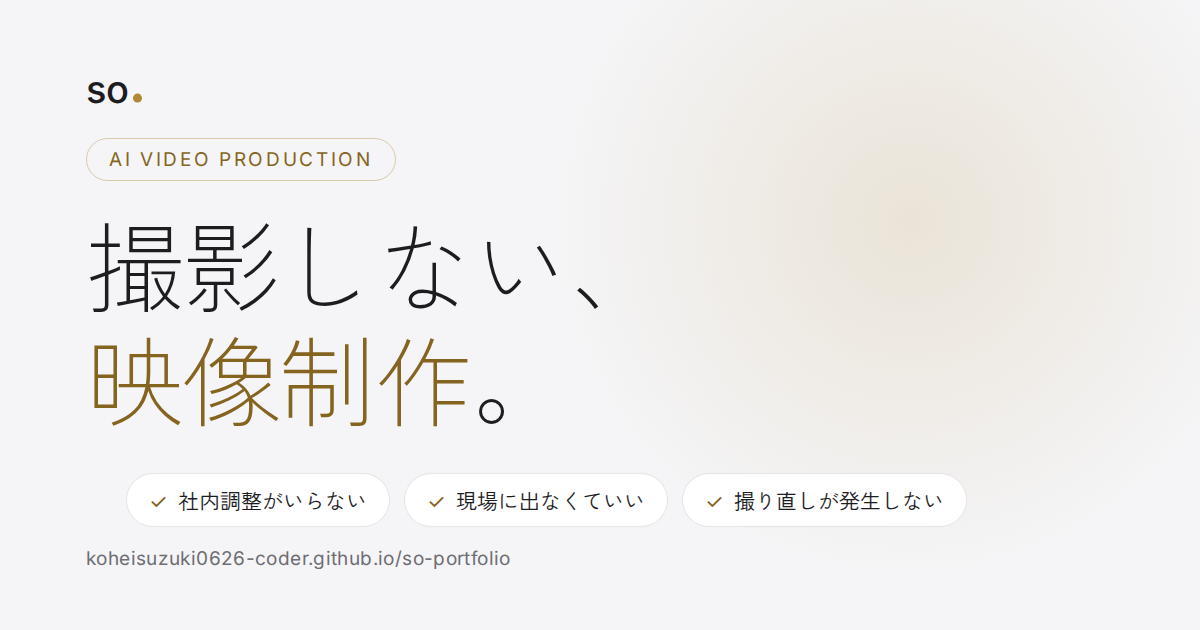
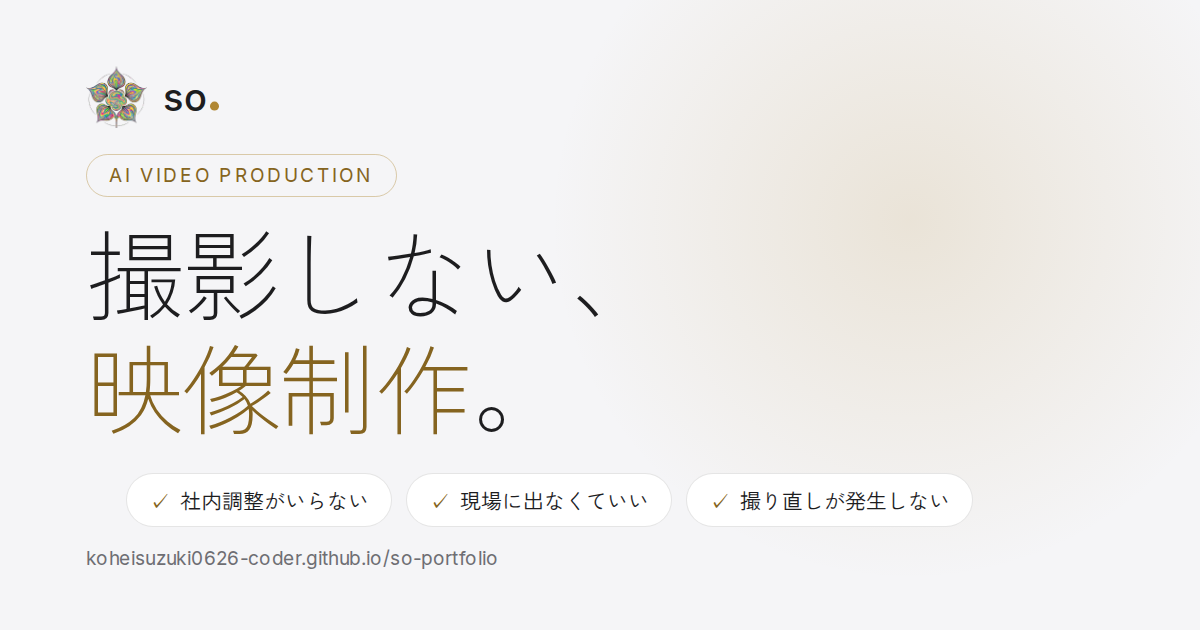
change: ロゴを花のシンボルマークに差し替える
いただいた絵をシンボルマークにして、社名の左に置く組みロゴにした。
社名の「.」を録画ボタンの ● として描く扱いはそのまま残している。

- ヘッダー・フッター(両ページ)にマークを追加
  大きさは文字サイズ連動(1.62em)で、画面幅が変わっても比率は崩れない
- 元は白地の JPEG なので、外周から塗りつぶして地に繋がっている白だけを透過に
  単純な白キーだと花の内側の淡い色まで穴が開くため
  白と混ざったぶんを戻してあるので、暗い地でも白フチが出ない
- ファビコン・apple-touch-icon・OGP 画像を作り直し
  iOS は透過を黒く潰すので apple-touch-icon だけ白地を敷く
- 名刺・印刷用に組みロゴ(明るい地/暗い地)と茎つき原寸版を追加
- サイトが読むマークは 256px に減色して 31KB(原寸は 240KB)
  実際に出る 30〜60px では見分けがつかない
- 元の絵と生成スクリプトを残したので、いつでも作り直せる
- ワードマークの SVG は logo-word*.svg に改名(ロゴ全体ではないため)

Claude-Session: https://claude.ai/code/session_01G6zCorxV6ds2UKWpb8gnyK

diff --git a/assets/src/ogp.html b/assets/src/ogp.html
@@ -1,0 +1,40 @@
+<!doctype html><html lang="ja"><head><meta charset="utf-8">
+<link rel="stylesheet" href="https://fonts.googleapis.com/css2?family=Inter:wght@300;400;500&family=Zen+Kaku+Gothic+New:wght@300;400;500&display=swap">
+<style>
+*{box-sizing:border-box;margin:0}
+body{width:1200px;height:630px;background:#f5f5f7;
+  font-family:"Inter","Zen Kaku Gothic New",sans-serif;color:#1d1d1f;
+  display:flex;flex-direction:column;justify-content:space-between;
+  padding:66px 86px 60px;position:relative;overflow:hidden}
+.glow{position:absolute;inset:-30% -10% auto auto;width:820px;height:820px;border-radius:50%;
+  background:radial-gradient(circle,rgba(176,135,51,.16),rgba(176,135,51,0) 62%)}
+.mark{font-size:38px;font-weight:500;letter-spacing:.01em;position:relative;
+  display:flex;align-items:center;gap:.42em}
+.mark img{height:1.62em;width:auto}
+.mark .w{display:flex;align-items:baseline}
+.mark i{width:.235em;height:.235em;margin-left:.075em;border-radius:50%;
+  background:#b08733;transform:translateY(-.01em)}
+.badge{display:inline-block;margin-top:26px;font-size:19px;letter-spacing:.14em;
+  color:#856420;border:1px solid rgba(176,135,51,.4);border-radius:980px;padding:9px 22px}
+h1{font-size:98px;font-weight:300;line-height:1.16;letter-spacing:-.015em;position:relative}
+h1 em{font-style:normal;color:#856420}
+.chips{display:flex;gap:14px;position:relative}
+.chips li{list-style:none;font-size:21px;font-weight:400;background:#fff;white-space:nowrap;
+  border:1px solid rgba(0,0,0,.1);border-radius:980px;padding:11px 22px}
+.chips li::before{content:"✓";color:#856420;margin-right:10px}
+.foot{display:flex;flex-direction:column;gap:20px;align-items:flex-start;position:relative}
+.url{font-size:19px;color:#6e6e73;letter-spacing:.02em;white-space:nowrap}
+</style></head><body>
+<div class="glow"></div>
+<div>
+  <div class="mark"><img src="/assets/logo-mark.png" alt=""><span class="w">so<i></i></span></div>
+  <div class="badge">AI VIDEO PRODUCTION</div>
+</div>
+<h1>撮影しない、<br><em>映像制作</em>。</h1>
+<div class="foot">
+  <ul class="chips">
+    <li>社内調整がいらない</li><li>現場に出なくていい</li><li>撮り直しが発生しない</li>
+  </ul>
+  <div class="url">koheisuzuki0626-coder.github.io/so-portfolio</div>
+</div>
+</body></html>

diff --git a/about.html b/about.html
@@ -13,7 +13,7 @@
     <meta property="og:type" content="website">
     <link rel="canonical" href="https://koheisuzuki0626-coder.github.io/so-portfolio/about.html">
     <meta property="og:url" content="https://koheisuzuki0626-coder.github.io/so-portfolio/about.html">
-    <link rel="icon" href="assets/favicon.svg" type="image/svg+xml">
+    <link rel="icon" href="assets/favicon.png" type="image/png" sizes="any">
     <link rel="apple-touch-icon" href="assets/apple-touch-icon.png">
     <meta name="theme-color" content="#f5f5f7">
     <meta property="og:site_name" content="so.">
@@ -32,7 +32,7 @@
     <div class="progress" id="progress"></div>
 
     <nav id="nav">
-        <a href="index.html" class="logo" aria-label="so.">so<i class="logo-dot" aria-hidden="true"></i></a>
+        <a href="index.html" class="logo" aria-label="so."><img class="logo-mark" src="assets/logo-mark.png" alt="" width="256" height="257" decoding="async"><span class="logo-word">so<i class="logo-dot" aria-hidden="true"></i></span></a>
 
         <!-- 下層ページなので、導線はトップの主要セクションへ戻すだけにする -->
         <div class="nav-main">
@@ -115,7 +115,7 @@
     <footer>
         <div class="footer-inner">
             <div class="f-brand">
-                <a href="index.html" class="f-logo" aria-label="so.">so<i class="logo-dot" aria-hidden="true"></i></a>
+                <a href="index.html" class="f-logo" aria-label="so."><img class="logo-mark" src="assets/logo-mark.png" alt="" width="256" height="257" decoding="async"><span class="logo-word">so<i class="logo-dot" aria-hidden="true"></i></span></a>
                 <p class="f-tagline">撮影しない、映像制作。</p>
                 <p class="f-note">AI で動画をつくる会社です。出演者の手配も、撮影日の調整も必要ありません。</p>
                 <a href="#contact" class="pill pill-solid f-cta">相談してみる</a>

diff --git a/index.html b/index.html
@@ -13,7 +13,7 @@
     <meta property="og:type" content="website">
     <link rel="canonical" href="https://koheisuzuki0626-coder.github.io/so-portfolio/">
     <meta property="og:url" content="https://koheisuzuki0626-coder.github.io/so-portfolio/">
-    <link rel="icon" href="assets/favicon.svg" type="image/svg+xml">
+    <link rel="icon" href="assets/favicon.png" type="image/png" sizes="any">
     <link rel="apple-touch-icon" href="assets/apple-touch-icon.png">
     <meta name="theme-color" content="#f5f5f7">
     <meta property="og:site_name" content="so.">
@@ -144,7 +144,7 @@
     <div class="progress" id="progress"></div>
 
     <nav id="nav">
-        <a href="#top" class="logo" aria-label="so.">so<i class="logo-dot" aria-hidden="true"></i></a>
+        <a href="#top" class="logo" aria-label="so."><img class="logo-mark" src="assets/logo-mark.png" alt="" width="256" height="257" decoding="async"><span class="logo-word">so<i class="logo-dot" aria-hidden="true"></i></span></a>
 
         <!-- 主要導線は4つに絞り、ジャンルはドロップダウンに格納する -->
         <div class="nav-main">
@@ -607,7 +607,7 @@
     <footer>
         <div class="footer-inner">
             <div class="f-brand">
-                <a href="#top" class="f-logo" aria-label="so.">so<i class="logo-dot" aria-hidden="true"></i></a>
+                <a href="#top" class="f-logo" aria-label="so."><img class="logo-mark" src="assets/logo-mark.png" alt="" width="256" height="257" decoding="async"><span class="logo-word">so<i class="logo-dot" aria-hidden="true"></i></span></a>
                 <p class="f-tagline">撮影しない、映像制作。</p>
                 <p class="f-note">AI で動画をつくる会社です。出演者の手配も、撮影日の調整も必要ありません。</p>
                 <a href="#contact" class="pill pill-solid f-cta">相談してみる</a>

diff --git a/assets/site.css b/assets/site.css
@@ -117,10 +117,18 @@ h1, h2, h3, .display, .headline, .subhead { text-wrap: balance; }
 .pill-ghost:hover { border-color: var(--ink); transform: translateY(-1px); }
 
 /* ---------- Logo ---------- */
-/* 社名の「.」を録画ボタンの ● として描く。
-   サイトの見出しはすべて句点で終わるので、その句点がそのままマークになる。
-   文字ではなく図形にしてあるぶん、小さくしても潰れない */
-#nav .logo, .f-logo { display: inline-flex; align-items: baseline; }
+/* シンボルマーク(花)＋社名の組み。
+   「.」は録画ボタンの ● として図形で描いてあり、小さくしても潰れない */
+#nav .logo, .f-logo { display: inline-flex; align-items: center; gap: 0.42em; }
+.logo-word { display: inline-flex; align-items: baseline; }
+.logo-mark {
+    flex: none;
+    /* 社名の文字サイズに連動させる。小さい画面でも比率が変わらない */
+    width: auto;
+    height: 1.62em;
+    /* 花の重心は上寄りなので、文字の中心とそろうよう少しだけ下げる */
+    transform: translateY(0.02em);
+}
 .logo-dot {
     flex: none;
     width: 0.235em;

diff --git a/assets/src/lockup.html b/assets/src/lockup.html
@@ -1,0 +1,19 @@
+<!doctype html><html lang="ja"><head><meta charset="utf-8">
+<link rel="stylesheet" href="https://fonts.googleapis.com/css2?family=Inter:wght@500&display=swap">
+<style>
+*{box-sizing:border-box;margin:0}
+html,body{background:transparent}
+body{font-family:Inter,sans-serif;padding:0}
+.lock{display:inline-flex;align-items:center;gap:.42em;font-size:200px;font-weight:500;
+  letter-spacing:.01em;line-height:1;padding:24px}
+.lock img{height:1.62em;width:auto;transform:translateY(.02em)}
+.w{display:inline-flex;align-items:baseline}
+.w i{flex:none;width:.235em;height:.235em;margin-left:.075em;border-radius:50%;
+  background:#b08733;transform:translateY(-.01em)}
+.light .w{color:#1d1d1f}
+.dark .w{color:#f5f5f7}
+.dark .w i{background:#d9b45f}
+</style></head><body>
+<span class="lock light" id="light"><img src="/assets/logo-mark.png" alt=""><span class="w">so<i></i></span></span>
+<span class="lock dark" id="dark"><img src="/assets/logo-mark.png" alt=""><span class="w">so<i></i></span></span>
+</body></html>
